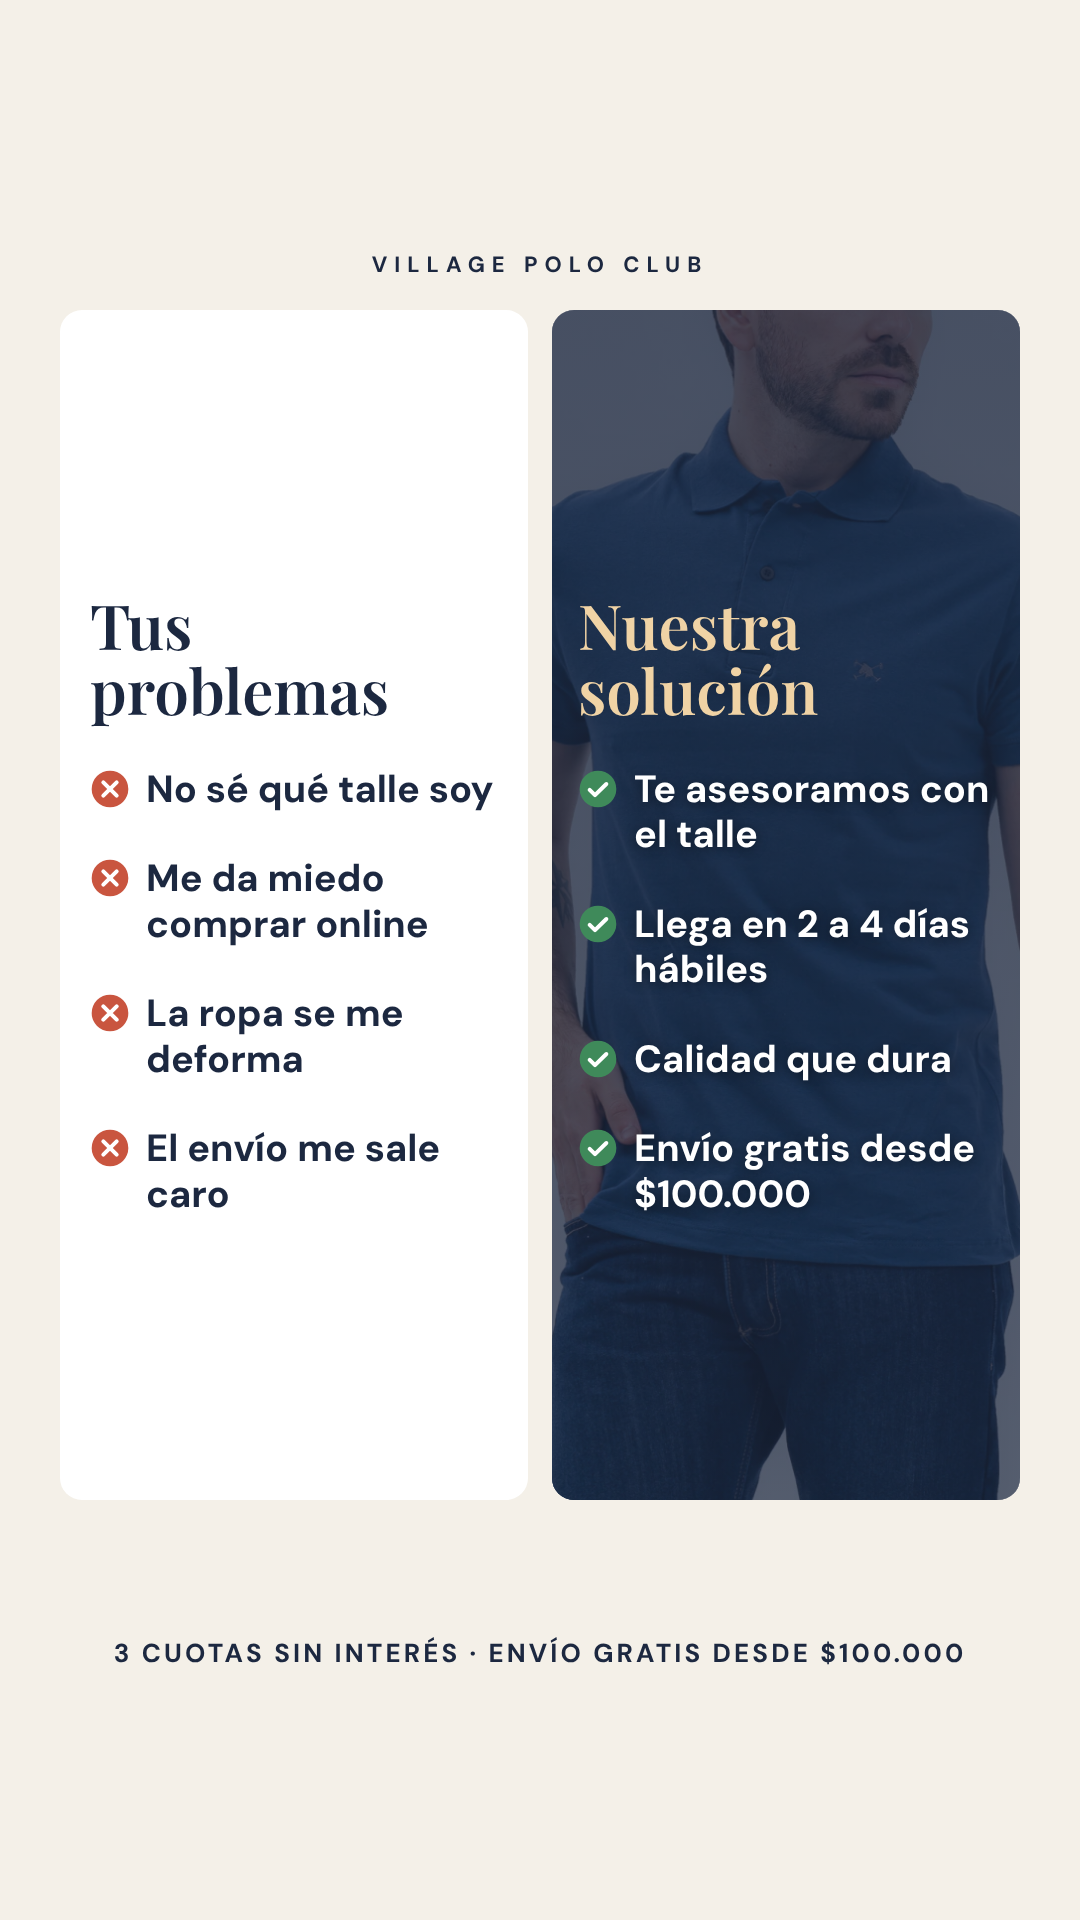
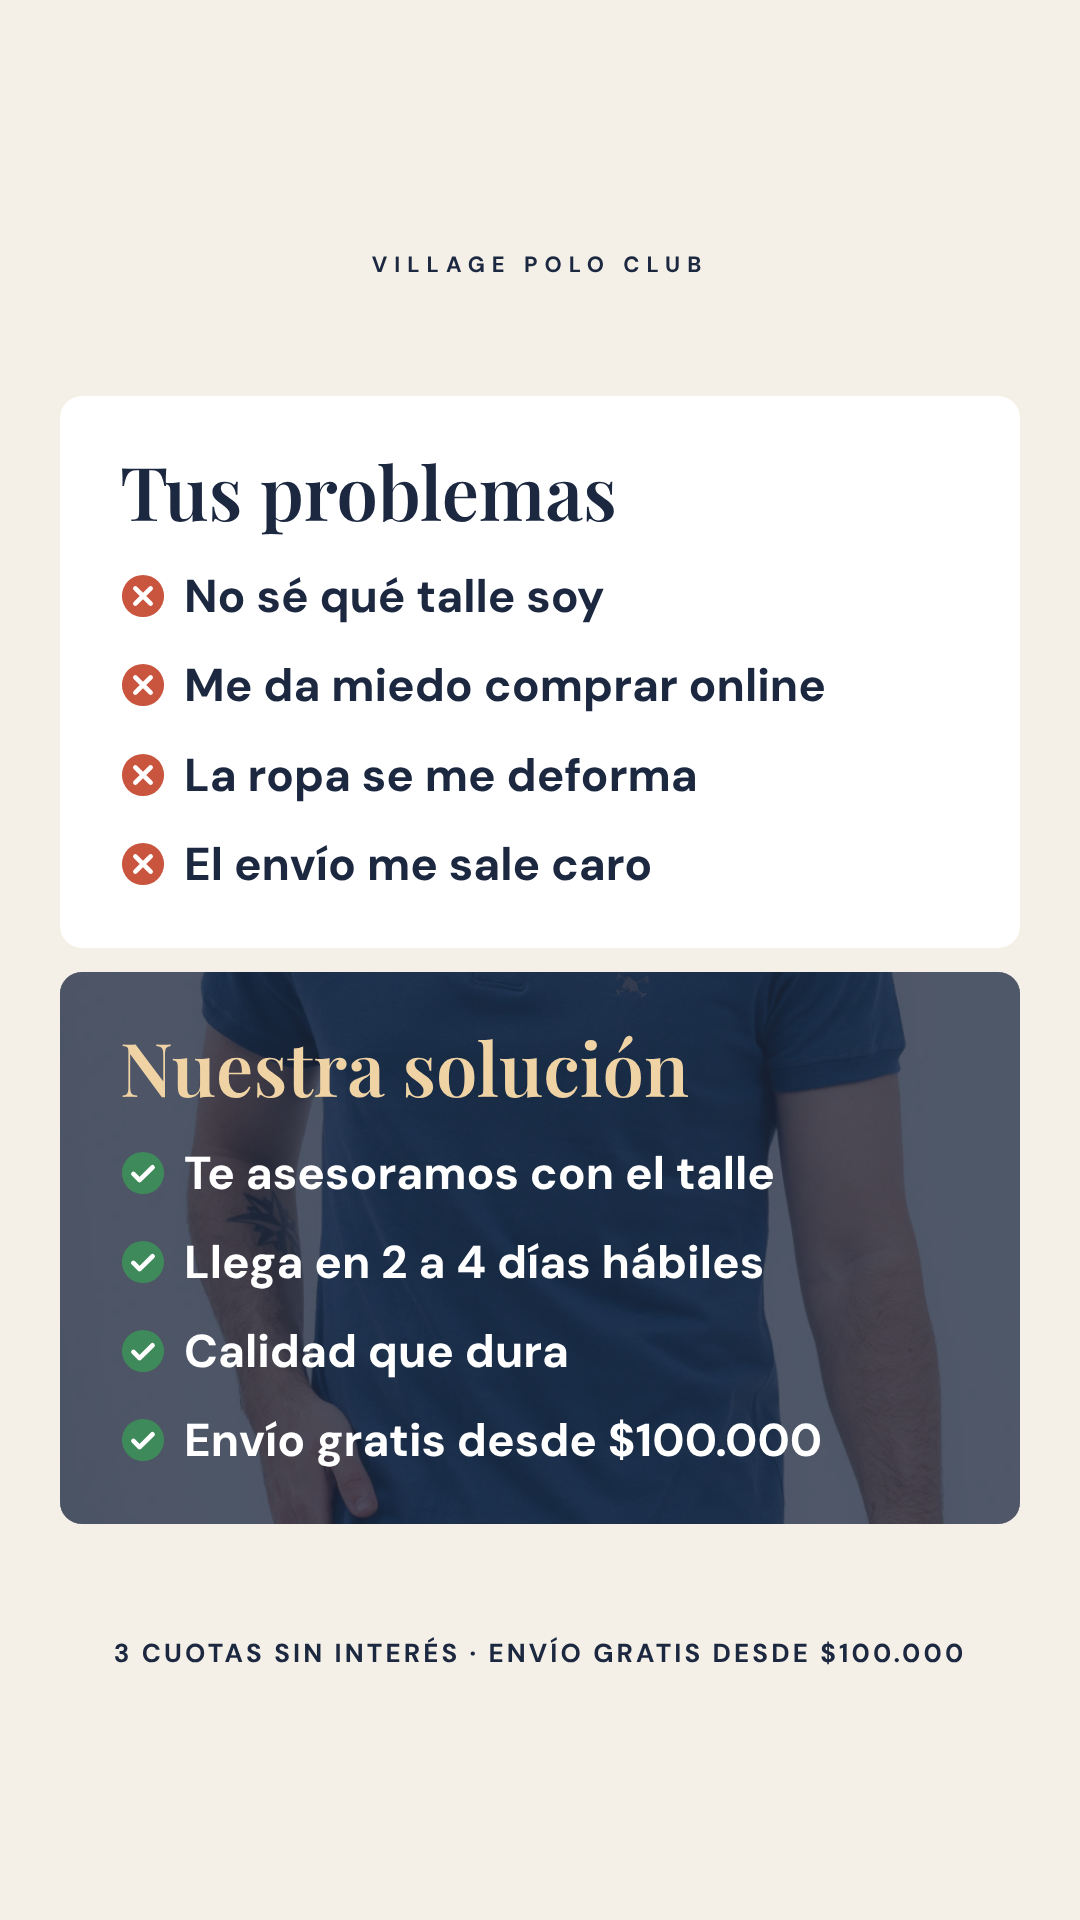
Village: R1 con nuevas proporciones, R3 con calorías; P2 descartada
Claude-Session: https://claude.ai/code/session_01BwB1NJ45564dBMrvfqcTE9

diff --git a/village-polo-club/placas/testeo-24-11/fuente/base.css b/village-polo-club/placas/testeo-24-11/fuente/base.css
@@ -1,0 +1,4 @@
+@font-face{font-family:'PF';font-weight:400 500;src:url(fonts/pf500.woff2)}@font-face{font-family:'PF';font-weight:600 700;src:url(fonts/pf600.woff2)}@font-face{font-family:'DM';font-weight:400 700;src:url(fonts/dm700.woff2)}
+*{margin:0;padding:0;box-sizing:border-box}
+.c{width:1080px;height:1350px;position:relative;overflow:hidden;font-family:'DM';font-variant-numeric:lining-nums}
+img{display:block;object-fit:cover}

diff --git a/village-polo-club/placas/testeo-24-11/fuente/gen.py b/village-polo-club/placas/testeo-24-11/fuente/gen.py
@@ -18,20 +18,24 @@ def r1(fmt):
     top=70 if fmt=='feed' else 250
     L=''.join(f'<li>{X}<span>{p}</span></li>' for p in probs)
     R=''.join(f'<li>{V}<span>{s}</span></li>' for s in sols)
-    colh=H-top-260 if fmt=='feed' else 1150
-    body=f'''<div style="position:absolute;top:{top}px;left:0;right:0" class="brand">VILLAGE POLO CLUB</div>
-<div style="position:absolute;top:{top+60}px;left:60px;right:60px;bottom:{H-top-60-colh-40}px;display:grid;grid-template-columns:1fr 1fr;gap:24px">
- <div style="background:#fff;border-radius:22px;padding:44px 30px;display:flex;flex-direction:column;justify-content:center">
+    story=fmt!='feed'
+    cols='1fr' if story else '1fr 1fr'
+    pad='56px 60px' if story else '60px 36px'
+    body=f"""<div style="position:absolute;top:{top}px;left:0;right:0" class="brand">VILLAGE POLO CLUB</div>
+<div style="position:absolute;top:{top+50}px;bottom:{top+50}px;left:60px;right:60px;display:flex;flex-direction:column;justify-content:center">
+<div style="display:grid;grid-template-columns:{cols};gap:24px">
+ <div style="background:#fff;border-radius:22px;padding:{pad}">
   <div class="t">Tus problemas</div><ul>{L}</ul></div>
- <div style="border-radius:22px;overflow:hidden;position:relative;background:{NAVY}">
-  <img class="ph" src="chomba-jersey-azul-1.webp" style="object-view-box:inset(22% 8% 0 8%)">
-  <div style="position:absolute;inset:0;background:linear-gradient(180deg,rgba(28,40,64,.78) 0%,rgba(28,40,64,.7) 100%)"></div>
-  <div style="position:absolute;inset:44px 26px;color:#fff;display:flex;flex-direction:column;justify-content:center"><div class="t" style="color:#f0d3a5">Nuestra solución</div><ul class="w">{R}</ul></div>
- </div></div>
-<div style="position:absolute;bottom:{70 if fmt=='feed' else 250}px;left:0;right:0" class="ben">{BEN}</div>'''
-    extra='''.t{font-family:'PF';font-weight:600;font-size:62px;line-height:1.05;margin-bottom:44px}
-ul{list-style:none;display:flex;flex-direction:column;gap:44px}li{display:flex;gap:16px;align-items:flex-start;font-size:38px;font-weight:700;line-height:1.2}li svg{flex:none;margin-top:2px}
-ul.w li{color:#fff;text-shadow:0 2px 12px rgba(0,0,0,.4)}'''
+ <div style="border-radius:22px;overflow:hidden;position:relative;background:{NAVY};padding:{pad}">
+  <img class="ph" src="chomba-jersey-azul-1.webp" style="position:absolute;inset:0;object-view-box:inset(22% 8% 0 8%)">
+  <div style="position:absolute;inset:0;background:rgba(28,40,64,.74)"></div>
+  <div style="position:relative;color:#fff"><div class="t" style="color:#f0d3a5">Nuestra solución</div><ul class="w">{R}</ul></div>
+ </div></div></div>
+<div style="position:absolute;bottom:{top}px;left:0;right:0" class="ben">{BEN}</div>"""
+    fs=46 if story else 38
+    extra=f""".t{{font-family:'PF';font-weight:600;font-size:{74 if story else 62}px;line-height:1.05;margin-bottom:40px}}
+ul{{list-style:none;display:flex;flex-direction:column;gap:{34 if story else 40}px}}li{{display:flex;gap:18px;align-items:flex-start;font-size:{fs}px;font-weight:700;line-height:1.2}}li svg{{flex:none;margin-top:4px;width:{fs}px;height:{fs}px}}
+ul.w li{{color:#fff}}"""
     return page(W,H,body,extra)
 def r2(fmt):
     W,H=(1080,1350) if fmt=='feed' else (1080,1920)
@@ -43,8 +47,8 @@ def r2(fmt):
  <div class="bar"><svg width="40" height="40" viewBox="0 0 24 24"><circle cx="10" cy="10" r="6.5" stroke="#5f6368" stroke-width="2.2" fill="none"/><path d="M15 15l5 5" stroke="#5f6368" stroke-width="2.4" stroke-linecap="round"/></svg><span>qué ponerme para un casamiento de día</span><span class="cur"></span></div>
  <div class="lab" style="margin-top:46px">La solución</div>
  <div style="display:grid;grid-template-columns:1fr 1fr;gap:20px;height:{ph}px">
-  <div class="box"><img class="ph" src="camisa-lino-algodon-blanco-2.jpg" style="object-view-box:inset(20% 6% 0 6%)"><span class="tag">Camisa de lino</span></div>
-  <div class="box"><img class="ph" src="pantalon-chino-lino-azul-2.jpg"><span class="tag">Chino de lino</span></div>
+  <div class="box"><img class="ph" src="camisa-lino-algodon-blanco-2.webp" style="object-view-box:inset(20% 6% 0 6%)"><span class="tag">Camisa de lino</span></div>
+  <div class="box"><img class="ph" src="pantalon-chino-lino-azul-2.webp"><span class="tag">Chino de lino</span></div>
  </div>
 </div>
 <div style="position:absolute;bottom:{70 if fmt=='feed' else 250}px;left:0;right:0" class="ben">{BEN}</div>'''
@@ -57,18 +61,18 @@ def r2(fmt):
 def r3(fmt):
     W,H=(1080,1350) if fmt=='feed' else (1080,1920)
     top=70 if fmt=='feed' else 250
-    ch=760 if fmt=='feed' else 880
+    ch=700 if fmt=='feed' else 820
     plate='<svg width="230" height="230" viewBox="0 0 64 64"><circle cx="32" cy="34" r="20" fill="none" stroke="#f0d3a5" stroke-width="2.4"/><circle cx="32" cy="34" r="13" fill="none" stroke="#f0d3a5" stroke-width="1.6"/><path d="M6 14v14M3 14v8c0 3 6 3 6 0v-8M6 28v24" stroke="#f0d3a5" stroke-width="2.2" stroke-linecap="round" fill="none"/><path d="M58 14c-4 2-5 8-5 14h5v24" stroke="#f0d3a5" stroke-width="2.2" stroke-linecap="round" stroke-linejoin="round" fill="none"/></svg>'
     body=f'''<div style="position:absolute;top:{top}px;left:0;right:0" class="brand">VILLAGE POLO CLUB</div>
 <h1 style="position:absolute;top:{top+70}px;left:60px;right:60px;font-size:{86 if fmt=='feed' else 96}px">Si vas a darte un gusto, pensalo bien</h1>
 <div style="position:absolute;left:60px;right:60px;top:{top+70+(200 if fmt=='feed' else 230)}px;height:{ch}px;display:grid;grid-template-columns:1fr 1fr;gap:24px">
  <div class="box" style="background:{NAVY};display:flex;flex-direction:column;align-items:center;justify-content:center;gap:30px">{plate}<div class="k" style="color:#fff">Una cena</div></div>
- <div class="box"><img class="ph" src="chomba-tejida-hilo-algodon-vison-1.jpg" style="object-view-box:inset(24% 4% 0 4%)"></div>
+ <div class="box"><img class="ph" src="chomba-tejida-hilo-algodon-vison-1.webp" style="object-view-box:inset(24% 4% 0 4%)"></div>
 </div>
 <div style="position:absolute;left:60px;right:60px;top:{top+70+(200 if fmt=='feed' else 230)+ch+26}px;display:grid;grid-template-columns:1fr 1fr;gap:24px;text-align:center">
- <div class="d">Te dura 2 horas</div><div class="d" style="color:{GOLD}">Te dura años</div></div>
+ <div class="d">Te dura 2 horas<br><span class="cal">y suma ~1.200 calorías</span></div><div class="d" style="color:{GOLD}">Te dura años<br><span class="cal">y 0 calorías</span></div></div>
 <div style="position:absolute;bottom:{70 if fmt=='feed' else 250}px;left:0;right:0" class="ben">{BEN}</div>'''
-    extra='''.box{border-radius:22px;overflow:hidden;position:relative}.k{font-family:'PF';font-weight:600;font-size:54px}.d{font-family:'PF';font-weight:600;font-size:48px}'''
+    extra='''.box{border-radius:22px;overflow:hidden;position:relative}.k{font-family:'PF';font-weight:600;font-size:54px}.d{font-family:'PF';font-weight:600;font-size:48px;line-height:1.15}.cal{font-family:'DM';font-size:30px;font-weight:700;color:#1c2840;opacity:.75}'''
     return page(W,H,body,extra)
 def grid(fmt,imgs,eyebrow,h,sub,crops):
     W,H=(1080,1350) if fmt=='feed' else (1080,1920)
